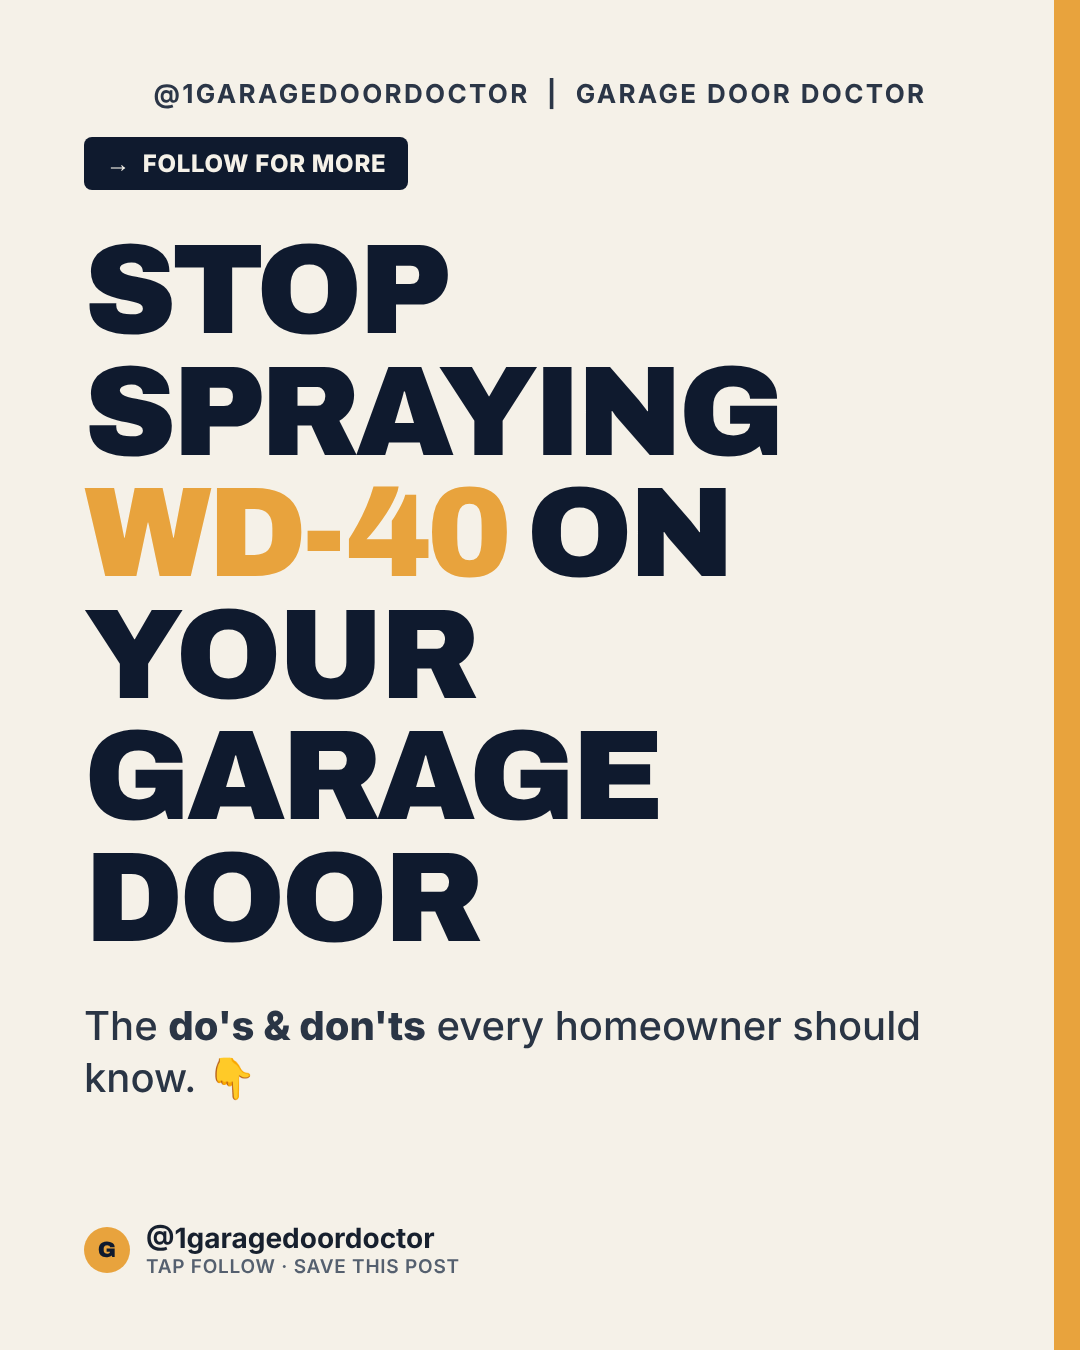
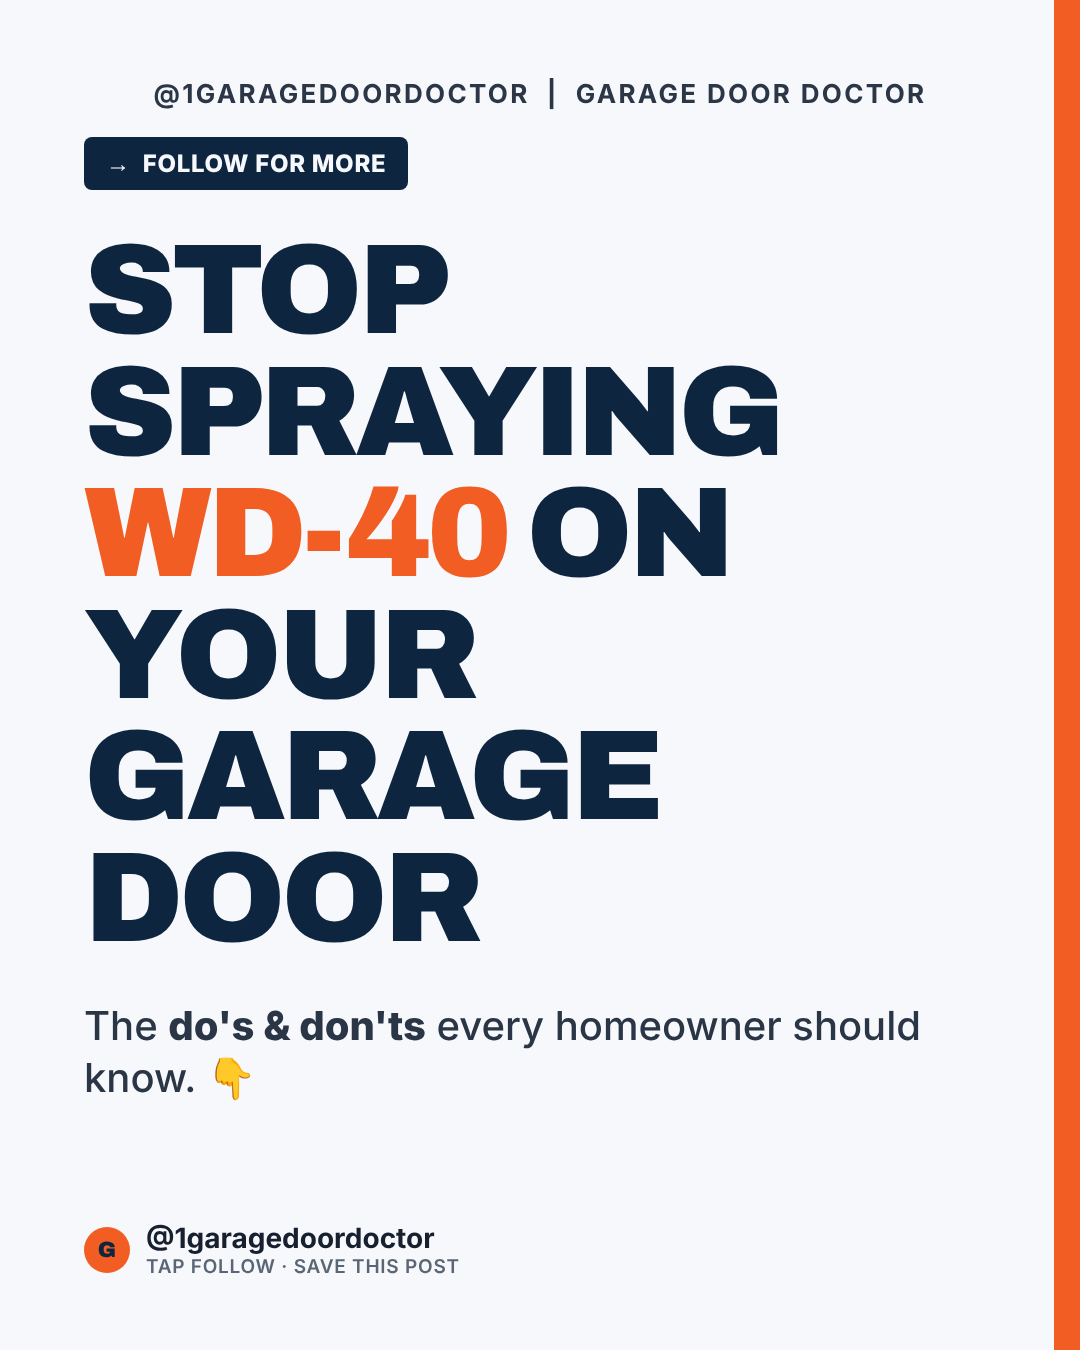
Recolor GDD carousel to real Garage Door Doctor brand (navy/orange/blue)
Replaced the placeholder A1 palette with GDD's actual brand colors sampled
from houstongaragedoordoctor.com: navy #0E2540, orange #F15D22 (primary
accent), light blue #00AAE7 (secondary). DO = orange chip, DON'T = blue-
outlined navy chip. Re-exported all 7 PNGs.

Claude-Session: https://claude.ai/code/session_01EQbWoBGtVsHynXoawgJoJp

Changed region(s): [[0.0611, 0.3422, 0.4889, 0.4356], [0.9778, 0.0, 1.0, 1.0], [0.0611, 0.9022, 0.1222, 0.9644]]

diff --git a/carousels/gdd-garage-door-dos-donts/index.html b/carousels/gdd-garage-door-dos-donts/index.html
@@ -10,12 +10,13 @@
 <link href="https://fonts.googleapis.com/css2?family=Archivo:wght@500;600;700;800;900&family=Inter:wght@400;500;600;700;800&display=swap" rel="stylesheet" />
 <style>
   :root{
-    --navy:#0F1A2E;
-    --gold:#E8A33D;
-    --cream:#F5F1E8;
+    --navy:#0E2540;     /* GDD navy */
+    --gold:#F15D22;     /* GDD orange (primary accent) */
+    --blue:#00AAE7;     /* GDD light-blue (secondary) */
+    --cream:#F6F8FB;    /* near-white light surface */
     --red:#C73A2F;
-    --muted-cream:#55606f;
-    --muted-navy:#97a3b7;
+    --muted-cream:#5a6675;
+    --muted-navy:#9fb0c6;
   }
   *,*::before,*::after{box-sizing:border-box;margin:0;padding:0;}
   html,body{background:#0a1020;font-family:'Inter',sans-serif;}
@@ -56,8 +57,9 @@
   .chip{display:inline-flex;align-items:center;gap:12px;font-family:'Archivo';font-weight:800;
     font-size:30px;letter-spacing:.05em;text-transform:uppercase;padding:11px 24px;border-radius:7px;
     background:var(--gold);color:var(--navy);}
-  .chip.do{background:var(--gold);color:var(--navy);}
-  .chip.dont{background:var(--red);color:#fff;}
+  .chip.do{background:var(--gold);color:#fff;}
+  .chip.dont{background:var(--navy);color:#fff;border:3px solid var(--blue);}
+  .s-navy .chip.dont{background:#17324f;}
 
   .points{margin-top:58px;display:flex;flex-direction:column;gap:42px;max-width:900px;}
   .point{display:grid;grid-template-columns:40px 1fr;gap:22px;align-items:start;}
@@ -149,7 +151,7 @@
 
   <div class="intro">
     <h1>Garage Door Doctor — "Do's & Don'ts" carousel · 7 slides · 1080×1350 (IG 4:5) · A1 brand colors</h1>
-    <p>Navy <code>#0F1A2E</code> · Gold <code>#E8A33D</code> · Cream <code>#F5F1E8</code>.
+    <p>GDD brand: Navy <code>#0E2540</code> · Orange <code>#F15D22</code> · Blue <code>#00AAE7</code>.
     Screenshot or print each slide to PNG for Instagram. Confirm the <code>DM "FIX"</code> booking line before posting,
     and drop a real crew photo into the frame on the last slide.</p>
   </div>

diff --git a/carousels/gdd-garage-door-dos-donts/README.md b/carousels/gdd-garage-door-dos-donts/README.md
@@ -1,7 +1,7 @@
 # Garage Door Doctor — "Do's & Don'ts" carousel
 
 Instagram carousel, **7 slides**, **1080×1350 (4:5)**. Cheatsheet layout
-(skewed banners, do/don't chips) in **A1 brand colors**: Navy `#0F1A2E` · Gold `#E8A33D` · Cream `#F5F1E8`.
+(skewed banners, do/don't chips) in **Garage Door Doctor brand colors** (from houstongaragedoordoctor.com): Navy `#0E2540` · Orange `#F15D22` · Blue `#00AAE7`.
 
 - `index.html` — the slides. Screenshot or print each `.slide` to PNG (1080×1350).
 - `export/slide-1.png` … `slide-7.png` — pre-rendered PNGs, ready to post.
